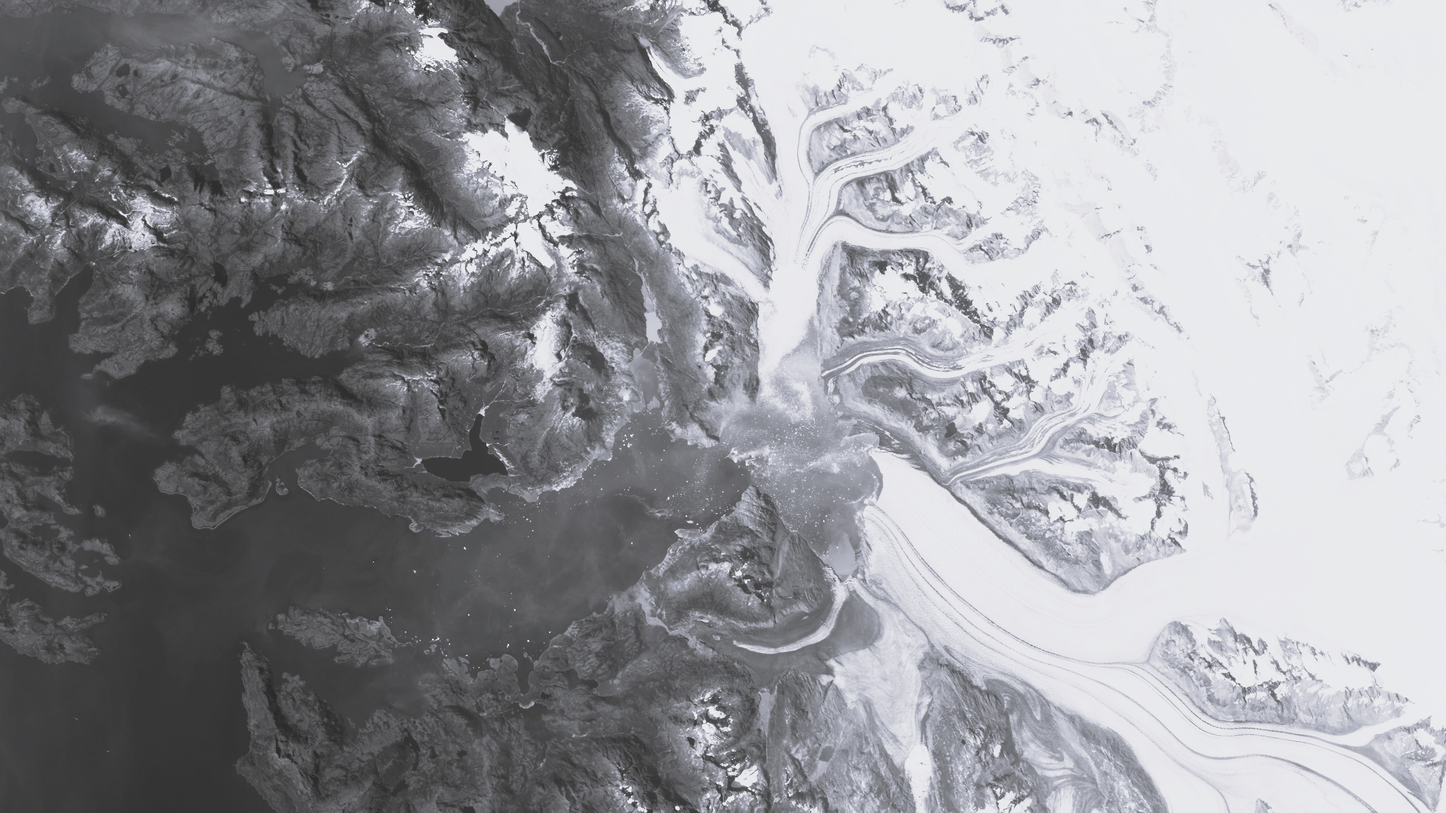
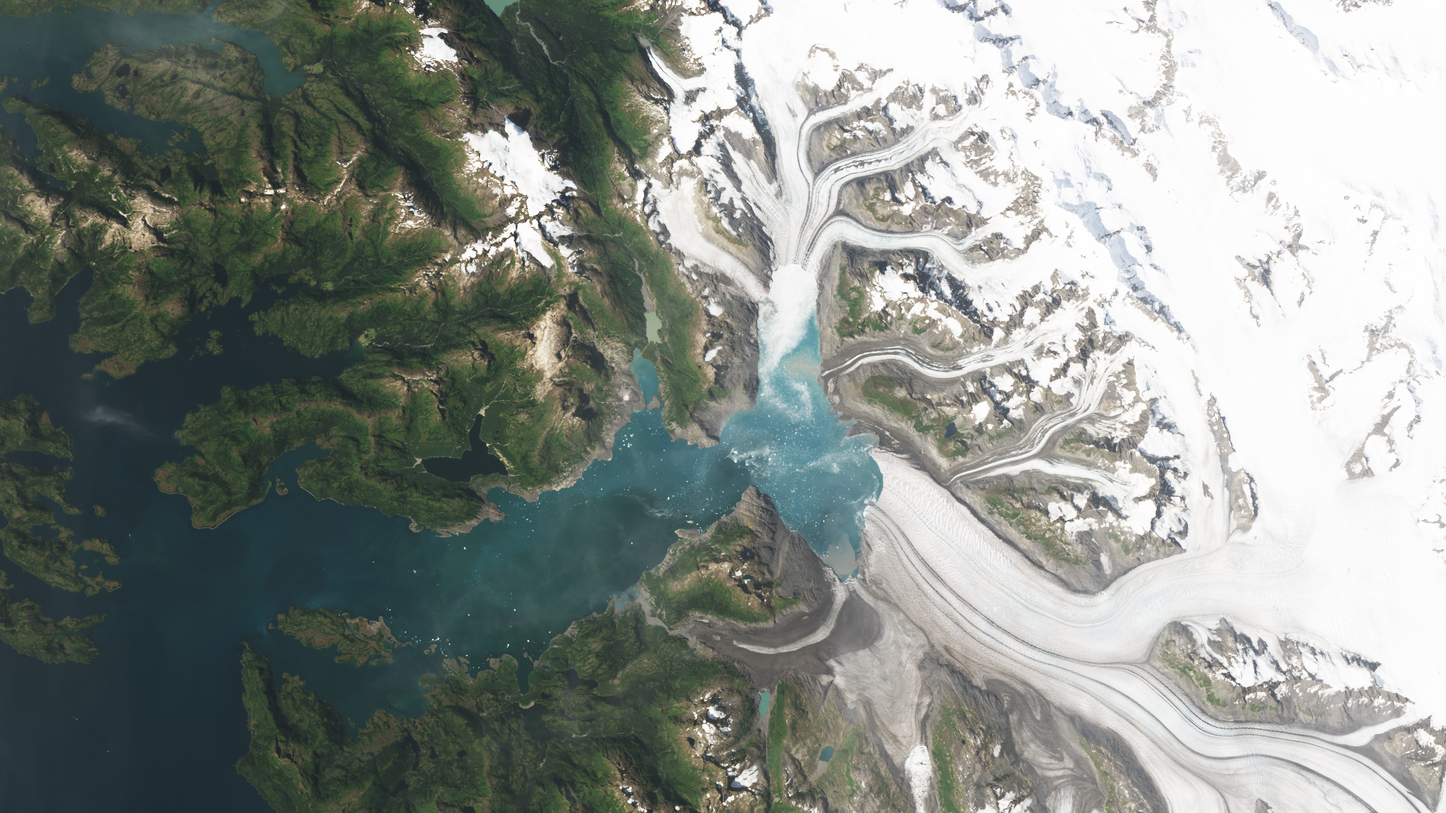
fixed glacier image

diff --git a/css/style.css b/css/style.css
@@ -26,7 +26,7 @@ a {
 
 #box {
   background-image: url("../images/columbia_glacier_alaska_timelapse_15m_0001_LC08_067017_20150813.jpg");
-  opacity: .4;
+  opacity: .8;
   background-repeat: no-repeat;
   background-size: cover;
   background-position: center;

diff --git a/index.html b/index.html
@@ -34,5 +34,4 @@
 		</div>
 	</div>
 </body>
-
 </html>
